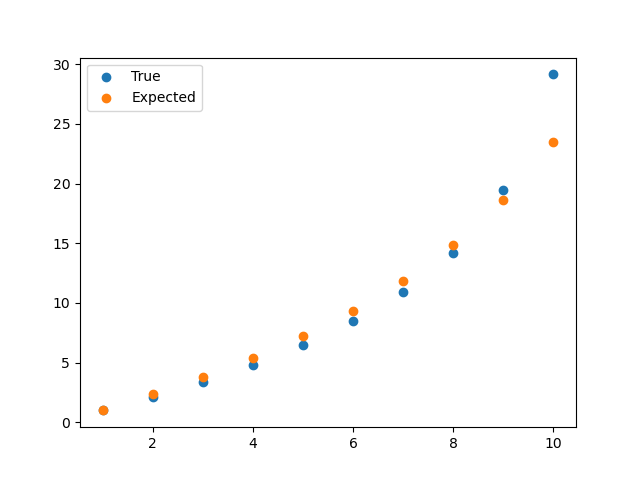
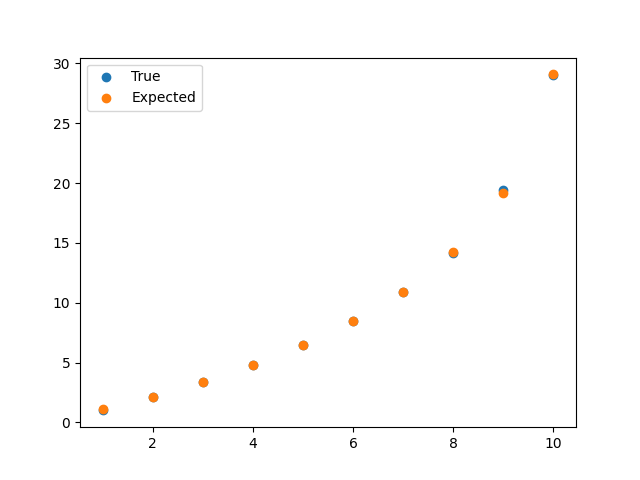
Column 12 fix

diff --git a/content/post/column-12/approx.py b/content/post/column-12/approx.py
@@ -2,11 +2,8 @@ import random
 import numpy as np
 
 def EX_approx(m, n):
-    if m == 1:
-        return 1
-
     # Fix a max. runtime that we consider. Let's take 2n
-    s = 4*n
+    s = 8*n
     # P[i][k] gives P(Y^(i) = k)
     P = np.zeros((s,s))
     Y = np.zeros(s)
@@ -16,11 +13,11 @@ def EX_approx(m, n):
     for i in range(2,s):
         # Inner loop only until i, because the values can't be larger
         for k in range(i):
-            Y[i] += (i-k) / n * P[i-1][k] * (k >= i-m)
-        #if i-m >= 0:
-        #    Y[i] *= P[i-1][i-m:].sum()
+            Y[i] += (i-k) / n * P[i-1][k] * (k > i-m)
         for k in range(i):
-            P[i][k] = P[i-1][k] * (1 - Y[i]) + P[i-1][k-1] * Y[i]
+            p1 = (i-k) / n * (k > i-m)
+            p2 = (i-(k-1)) / n * (k-1 > i-m)
+            P[i][k] = P[i-1][k] * (1 - p1) + P[i-1][k-1] * p2
     
     return m + Y.sum()
 
@@ -35,7 +32,7 @@ def sample_m(m, n):
 
 import matplotlib.pyplot as plt
 
-N = 100
+N = 1000
 n = 10
 its = []
 it_approxs = []
@@ -47,6 +44,7 @@ for i in range(1,n+1):
     its.append(it_mean / N)
 
     it_approx = EX_approx(i, n)
+    print(f"{i} | {it_approx:.2f}")
     it_approxs.append(it_approx)
 
 plt.figure()

diff --git a/content/post/column-12/index.md b/content/post/column-12/index.md
@@ -23,18 +23,19 @@ To answer this, let's define a few random variables:
 
 Our goal is to compute $\mathbb E[X] = m + \mathbb E[\sum_{k=1}^\infty Y_i] = m + \sum_{k=1}^\infty \mathbb E[Y_i]$.
 
-The first observation is that the probability of $Y_i$ being $1$ depends on the values of $Y_k$ for $k < i$: This is because the probability of a repeat draw is $C_i/n$, where $C_i$ is the size of our set at the start of iteration $i$, which can be expressed as $C_i = (i-1)-Y^{(i-1)}$. Because we cannot make the probability of a random variable depend on another random variable directly, we make use of the *law of total probability*.
+Let's denote by $C_i \coloneqq i - Y^{(i)}$ the size of the set at the end of iteration $i$.
+Then, the probability of a repeat draw in the $i$'th iteration is $C_{i-1}/n$. Because we cannot make the probability of a random variable depend on another random variable directly, we make use of the *law of total probability*.
 
 $$\mathbb E[Y_i] = P(Y_i = 1) = \sum_{k=0}^{i-1} P(Y_i = 1 \mid Y^{(i-1)} = k) P(Y^{(i-1)} = k).$$
 
 For the conditional probability, we have
-$$P(Y_i = 1 \mid Y^{(i-1)} = k) = \frac{i-k}{n} P(Y^{(i-1)} \geq i-m),$$
-where the second term is due to the fact that $Y_i$ should only be $1$, if the current size of the set is smaller than $m$.
+$$P(Y_i = 1 \mid Y^{(i-1)} = k) = \frac{(i-1)-k}{n} P(C_{i-1} < m),$$
+where the second term is due to the fact that $Y_i$ should only be $1$, if the current size of the set is smaller than $m$. This can also be rewritten as $P(Y^{(i-1)} \geq i-m)$.
 
 For the probability of the partial sums, we get:
-$$P(Y^{(i)} = k) = P(Y^{(i-1)} = k) P(Y_i = 0) + P(Y^{(i-1)} = k-1) P(Y_i = 1).$$
+$$P(Y^{(i)} = k) = P(Y^{(i-1)} = k) P(Y_i = 0 \mid Y^{(i-1)} = k) + P(Y^{(i-1)} = k-1) P(Y_i = 1 \mid Y^{(i-1)} = k-1).$$
 
-This formulation lends itself to a nice recursive algorithm that approximates $\mathbb E[X]$. I simply cap the computation at $4n$, which seems to work well, and further increasing it does not really change the result.
+This formulation lends itself to a nice recursive algorithm that approximates $\mathbb E[X]$. I simply cap the computation at $8n$, which seems to work well.
 
 ```python
 import numpy as np
@@ -43,23 +44,22 @@ def EX_approx(m, n):
     if m == 1:
         return 1
 
-    s = 4*n
-    
+    # Fix a max. runtime that we consider. Let's take 8n
+    s = 8*n
+    # P[i][k] gives P(Y^(i) = k)
     P = np.zeros((s,s))
     Y = np.zeros(s)
-
-    # Initialization of values.
     Y[1] = 1 / n
     P[1][0] = (n-1) / n
     P[1][1] = 1 / n
-
     for i in range(2,s):
+        # Inner loop only until i, because the values can't be larger
         for k in range(i):
-            Y[i] += (i-k) / n * P[i-1][k]
-        if i-m >= 0:
-            Y[i] *= P[i-1][i-m:].sum()
+            Y[i] += (i-k) / n * P[i-1][k] * (k > i-m)
         for k in range(i):
-            P[i][k] = P[i-1][k] * (1 - Y[i]) + P[i-1][k-1] * Y[i]
+            p1 = (i-k) / n * (k > i-m)  # P(Y_i = 1 | Y^(i-1) = k)
+            p2 = (i-(k-1)) / n * (k-1 > i-m)  # P(Y_i = 1 | Y^(i-1) = k-1)
+            P[i][k] = P[i-1][k] * (1 - p1) + P[i-1][k-1] * p2
     
     return m + Y.sum()
 ```
@@ -69,19 +69,23 @@ Note that I used 1-indexing in the equation but 0-indexing in the code. So, for 
 Below are the results for $n = 10$, rounded to two decimals.
 $m$|Expected iterations
 --|-----
-1 | 1.0
-2 | 2.36
-3 | 3.77
-4 | 5.37
-5 | 7.20
-6 | 9.33
-7 | 11.84
-8 | 14.87
-9 | 18.62
-10 | 23.48
+1 | 1.00
+2 | 2.11
+3 | 3.36
+4 | 4.78
+5 | 6.44
+6 | 8.43
+7 | 10.92
+8 | 14.23
+9 | 19.19
+10 | 29.08
 
 I ran an experiment to see how well it holds up in real experiments. It looks okay, but slightly wrong:
 
 ![](plot.png)
 
-So there is still an error in my calculations somewhere. Hopefully I'll find it!
+Looks correct!
+
+As I mentioned, I cap the computation after $8n$ steps. I'm not sure what makes this a good stopping point and whether this holds up for larger values of $n$. This could be something to investigate.
+
+Another point is that the book makes it sound like the answer could actually be computed analytically. It *might* be possible to turn what I wrote into a direct expression (using [generating functions](https://en.wikipedia.org/wiki/Generating_function), for example), but I'd expect it to be nasty.
